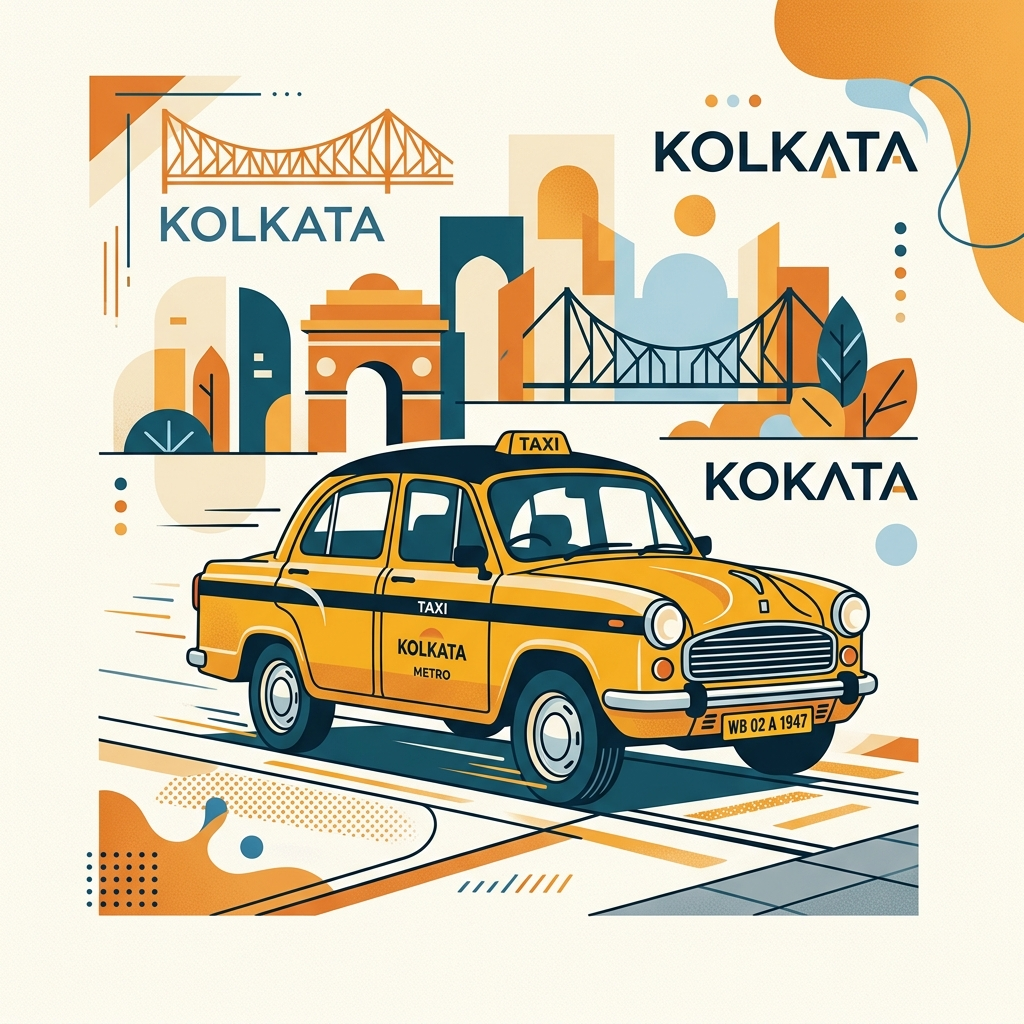
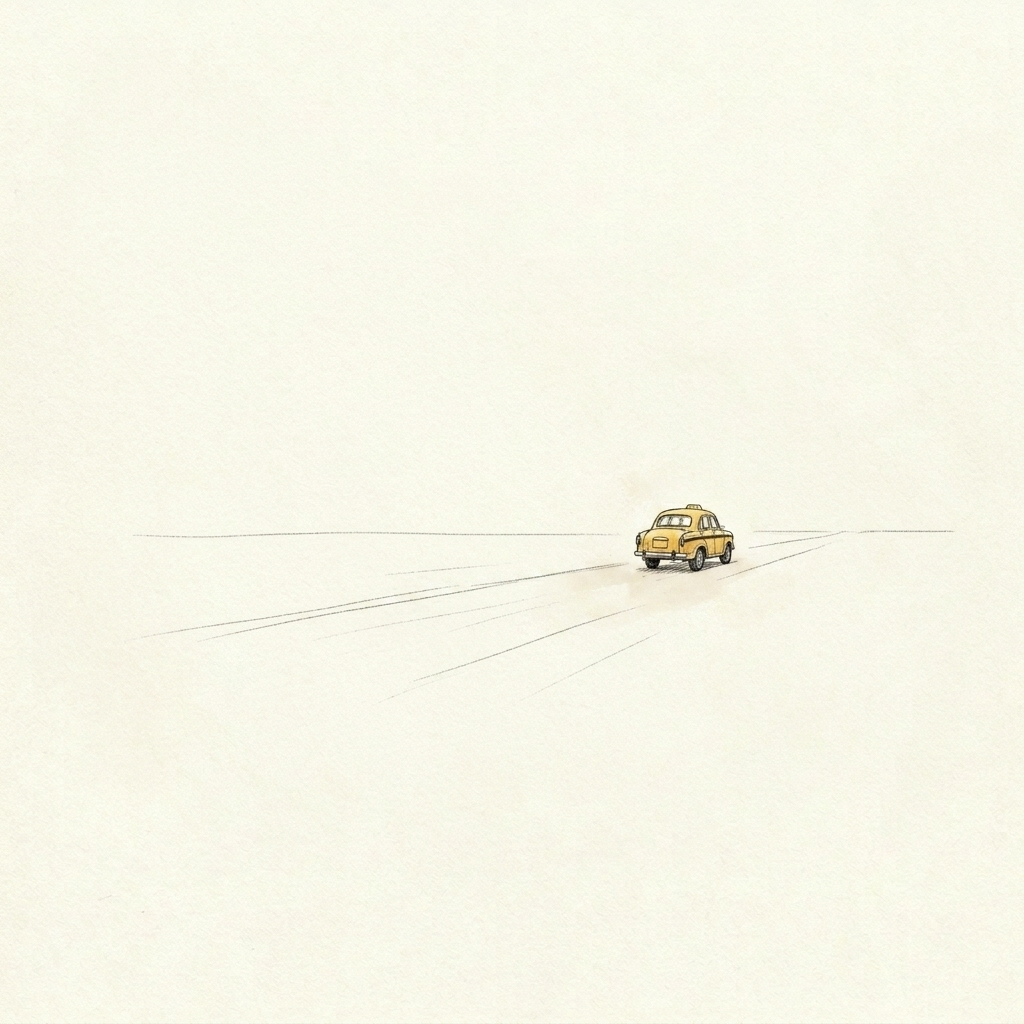
refactor: update brand assets and simplify home page layout and navigation styling

diff --git a/frontend/src/pages/Home.jsx b/frontend/src/pages/Home.jsx
@@ -5,11 +5,10 @@ import { ScrollTrigger } from 'gsap/ScrollTrigger';
 import { useGSAP } from '@gsap/react';
 import { ArrowRight } from 'lucide-react';
 import taxiImg from '../assets/images/taxi.png';
-import rickshawImg from '../assets/images/rickshaw.png';
-import bridgeImg from '../assets/images/bridge.png';
-import heroBridgeImg from '../assets/images/hero_bridge.png';
-import taxiSketchImg from '../assets/images/taxi_sketch.png';
+import sketchedRickshawImg from '../assets/images/sketched rickshaw.png';
+import taxiSketchImg from '../assets/images/taxi_sketch_minimal.png';
 import logoImg from '../assets/images/logo.png';
+import heroIllustrationImg from '../assets/images/hero_illustration.png';
 
 gsap.registerPlugin(ScrollTrigger);
 
@@ -29,23 +28,12 @@ const specials = [
   { id: 3, title: 'Weekend Art Bootcamp', image: 'https://images.unsplash.com/photo-1460661419201-fd4cecdf8a8b?auto=format&fit=crop&q=80', desc: 'A rigorous but fun weekend bootcamp covering three distinct art mediums over two days.' },
 ];
 
-const WordSplitter = ({ text, className }) => {
-  return (
-    <span className={className}>
-      {text.split(' ').map((word, i) => (
-        <span key={i} className="inline-block overflow-hidden align-bottom">
-          <span className="inline-block word-reveal translate-y-[120%]">{word}&nbsp;</span>
-        </span>
-      ))}
-    </span>
-  );
-};
 
 const Home = () => {
   const container = useRef(null);
   const [hoveredSpecial, setHoveredSpecial] = useState(0);
   const heroRef = useRef(null);
-  const introRef = useRef(null);
+
   const horizontalSectionRef = useRef(null);
   const horizontalScrollRef = useRef(null);
 
@@ -74,19 +62,6 @@ const Home = () => {
       delay: 0.2,
     });
 
-
-
-    // Intro Text Reveal
-    gsap.to(introRef.current.querySelectorAll('.word-reveal'), {
-      y: '0%',
-      duration: 1,
-      stagger: 0.02,
-      ease: 'power3.out',
-      scrollTrigger: {
-        trigger: introRef.current,
-        start: 'top 75%',
-      }
-    });
 
     // Horizontal Scroll for Activities
     const scrollContainer = horizontalScrollRef.current;
@@ -136,20 +111,7 @@ const Home = () => {
       }
     );
 
-    // About Stats Counters
-    const counters = gsap.utils.toArray('.stat-counter');
-    counters.forEach((counter) => {
-      const target = parseFloat(counter.getAttribute('data-target'));
-      gsap.to(counter, {
-        innerHTML: target,
-        duration: 2,
-        snap: { innerHTML: 1 },
-        scrollTrigger: {
-          trigger: counter,
-          start: 'top 80%',
-        }
-      });
-    });
+
 
     // About Image reveal (optimized)
     gsap.to('.about-img', {
@@ -177,17 +139,6 @@ const Home = () => {
       }
     });
 
-    // Coloring Kolkata Reveal
-    gsap.from('.coloring-kolkata', {
-      y: 100,
-      opacity: 0,
-      duration: 1.2,
-      ease: 'power4.out',
-      scrollTrigger: {
-        trigger: '.coloring-kolkata',
-        start: 'top 80%',
-      }
-    });
 
     // Team Header Reveal
     gsap.from('.team-header', {
@@ -285,60 +236,46 @@ const Home = () => {
   }, { scope: container });
 
   return (
-    <div ref={container} className="overflow-clip bg-bg-base text-text-dark">
+    <div ref={container} className="overflow-clip bg-[#f4ece3] text-text-dark">
       {/* Hero Section */}
-      <section ref={heroRef} className="relative h-screen flex items-center justify-center overflow-hidden bg-bg-base">
+      <section ref={heroRef} className="relative h-screen flex flex-col items-center justify-center overflow-hidden bg-[#f4ece3]">
         
-        {/* Background Image */}
-        <div className="absolute inset-0 z-0 opacity-80 pointer-events-none mix-blend-multiply flex items-center justify-center">
-           <img src={heroBridgeImg} className="w-full h-full object-cover object-center" alt="Kolkata Sketch" />
-           <div className="absolute inset-0 bg-bg-base/40"></div>
+        {/* Hero Illustration Background — rickshaw in center, skyline at bottom */}
+        <div className="absolute inset-0 w-full h-full pointer-events-none">
+           <img 
+             src={heroIllustrationImg} 
+             className="hero-illustration w-full h-full object-cover object-bottom opacity-40 mix-blend-multiply" 
+             alt="Kolkata Illustration" 
+           />
         </div>
 
-        <div className="relative z-40 text-center px-4 max-w-5xl mx-auto mt-[5vh] flex flex-col items-center">
-          <h1 className="hero-text text-xl md:text-2xl lg:text-3xl font-sans font-bold text-gray-500 tracking-widest uppercase mb-4 md:mb-6">
-            Welcome to
-          </h1>
-          <img src={logoImg} alt="Art Rickshaw" className="hero-text h-24 md:h-40 lg:h-56 w-auto mb-10 object-contain" />
-          <p className="hero-text text-xl md:text-3xl text-gray-500 font-sans mb-10 max-w-3xl mx-auto uppercase tracking-widest font-bold">
-            Immerse yourself in the vibrant art culture of the city of joy.
-          </p>
-        </div>
-      </section>
+        {/* Centered Content */}
+        <div className="relative z-40 text-center px-4 max-w-5xl mx-auto flex flex-col items-center justify-center">
+          <div className="hero-text mb-6 flex flex-col items-center">
+            <h2 className="text-lg md:text-xl font-serif italic text-[#657777] mb-3 tracking-wide">Since 2016, Hindustan Park</h2>
+            <div className="w-6 h-[2px] bg-[#e65a44] rounded-full"></div>
+          </div>
+          
+          <div className="hero-text mb-10 mt-4">
+            <img src={logoImg} alt="Art Rickshaw" className="h-20 md:h-28 lg:h-40 w-auto mx-auto object-contain" />
+          </div>
 
-      {/* Intro Section */}
-      <section ref={introRef} className="py-40 md:py-52 px-6 bg-bg-base relative z-10 border-t border-gray-200 overflow-hidden">
-        {/* Background Image */}
-        <div className="absolute inset-0 z-0 opacity-[0.25] pointer-events-none">
-           <img src={taxiSketchImg} className="w-full h-full object-cover mix-blend-multiply" alt="Kolkata Taxi Sketch" />
-        </div>
-        <div className="max-w-5xl mx-auto text-center relative z-10">
-          <h2 className="text-5xl md:text-7xl font-serif font-bold mb-12 text-text-dark uppercase tracking-tighter">
-            <WordSplitter text="More than just an art studio." />
-          </h2>
-          <p className="text-2xl md:text-4xl leading-relaxed text-gray-500 font-medium font-serif italic">
-            <WordSplitter text="Art Rickshaw is a place where creativity flows freely. Nestled in the heart of Kolkata, we bring people together through the power of expression, colors, and craftsmanship." />
-          </p>
-        </div>
-      </section>
-
-      {/* Infinite Marquee Section */}
-      <section className="py-6 bg-secondary text-white border-y-0">
-        <div className="animate-marquee cursor-pointer" data-cursor="explore">
-          <span className="text-5xl md:text-7xl font-serif font-bold mx-4 uppercase tracking-wider">
-            Art Rickshaw ✦ Express Yourself ✦ Kolkata's Creative Hub ✦ Workshops ✦ Private Events ✦ 
-          </span>
-          <span className="text-5xl md:text-7xl font-serif font-bold mx-4 uppercase tracking-wider">
-            Art Rickshaw ✦ Express Yourself ✦ Kolkata's Creative Hub ✦ Workshops ✦ Private Events ✦ 
-          </span>
+          <div className="hero-text flex flex-col items-center">
+            <h3 className="text-xl md:text-2xl font-serif text-[#657777] mb-3">Create. Learn. Belong.</h3>
+            <div className="w-6 h-[2px] bg-[#e65a44] rounded-full mb-5"></div>
+            <p className="text-sm md:text-base text-gray-600 font-sans max-w-md mx-auto font-medium leading-relaxed">
+              Workshops, pottery, events and<br/>creative experiences in <span className="text-[#e65a44] italic font-bold">Kolkata</span>.
+            </p>
+          </div>
         </div>
       </section>
 
       {/* Horizontal Scroll Activities Section */}
-      <section ref={horizontalSectionRef} className="h-screen bg-text-dark relative overflow-hidden flex flex-col justify-center">
-        <div className="w-full px-10 md:px-20 mb-8 pointer-events-none">
-          <h2 className="text-5xl md:text-7xl font-serif font-bold text-white">Our Activities</h2>
-          <p className="text-xl text-gray-400 mt-4 max-w-md font-medium">Scroll to explore the different ways you can express your creativity.</p>
+      <section ref={horizontalSectionRef} className="h-screen bg-[#f4ece3] relative overflow-hidden flex flex-col justify-center pt-24 pb-8 z-10">
+        <div className="w-full px-10 md:px-20 mb-8 pointer-events-none text-center">
+          <span className="text-secondary font-bold tracking-widest uppercase text-sm mb-6 block">What We Do</span>
+          <h2 className="text-5xl md:text-7xl font-serif font-black text-text-dark leading-none tracking-tighter">OUR ACTIVITIES</h2>
+          <p className="text-xl text-gray-500 mt-6 max-w-md mx-auto font-serif italic">Scroll to explore the different ways you can express your creativity.</p>
         </div>
 
         <div ref={horizontalScrollRef} className="flex h-[50vh] md:h-[60vh] items-center w-max pl-[10vw] pr-[20vw] will-change-transform">
@@ -360,14 +297,15 @@ const Home = () => {
         </div>
       </section>
 
+      {/* Spacer */}
+      <div className="h-32 bg-[#f4ece3] relative z-10"></div>
+
       {/* --- WEEKLY SPECIALS SECTION --- */}
-      <section className="specials-section bg-[#0a0a0a] text-white relative py-32 border-y border-white/5">
-        <div className="container mx-auto px-6 md:px-12 mb-16 md:mb-24 flex flex-col md:flex-row justify-between items-end specials-header">
-           <div className="max-w-2xl">
-             <span className="text-primary font-bold tracking-widest uppercase text-sm block mb-4">Curated Experiences</span>
-             <h2 className="text-5xl md:text-7xl font-serif font-black text-white tracking-tighter uppercase">Weekly Specials</h2>
-           </div>
-           <p className="text-xl text-gray-400 font-serif italic mt-6 md:mt-0 max-w-md">
+      <section className="specials-section bg-secondary text-white relative py-32 border-y border-white/10">
+        <div className="container mx-auto px-6 md:px-12 mb-16 md:mb-24 specials-header">
+           <span className="text-primary font-bold tracking-widest uppercase text-sm block mb-4">Curated Experiences</span>
+           <h2 className="text-5xl md:text-7xl font-serif font-black text-white tracking-tighter uppercase">Weekly Specials</h2>
+           <p className="text-xl text-gray-300 font-serif italic mt-6 max-w-xl">
              Exclusive, limited-capacity events designed to spark your creativity and connect you with like-minded individuals.
            </p>
         </div>
@@ -424,58 +362,36 @@ const Home = () => {
       </section>
 
       {/* --- ABOUT SECTION --- */}
-      <section id="about" className="pt-32 pb-24 bg-text-dark text-white">
+      <section id="about" className="pt-32 pb-8 bg-[#f4ece3] text-text-dark">
         <div className="container mx-auto px-6 md:px-12">
-          {/* Hero Content */}
-          <div className="max-w-6xl mb-20">
-            <span className="text-secondary font-bold tracking-widest uppercase text-sm mb-10 block">Our Story</span>
-            <h1 className="coloring-kolkata text-6xl md:text-[8vw] font-serif font-black text-white leading-none tracking-tighter mb-12">
-              COLORING <br/> KOLKATA.
-            </h1>
-            <p className="text-2xl md:text-4xl text-gray-400 font-serif italic max-w-4xl leading-relaxed">
-              Founded with a passion for bringing people together through creativity, Art Rickshaw is more than just a studio. It's a sanctuary for imagination.
+          {/* Header — matches MEET THE CREATIVES style */}
+          <div className="flex flex-col md:flex-row justify-between items-end mb-20">
+            <div>
+              <span className="text-secondary font-bold tracking-widest uppercase text-sm mb-6 block">Our Story</span>
+              <h2 className="text-5xl md:text-7xl font-serif font-black text-text-dark leading-none tracking-tighter">
+                OUR <br/> PHILOSOPHY.
+              </h2>
+            </div>
+            <p className="text-xl text-gray-500 max-w-md mt-6 md:mt-0 font-serif italic">
+              Founded with a passion for bringing people together through creativity, Art Rickshaw is more than just a studio.
             </p>
           </div>
 
-          {/* Stats Section */}
-          <div className="py-20 border-y border-white/10">
-            <div className="grid grid-cols-1 md:grid-cols-3 gap-20">
-              <div>
-                <div className="text-[15vw] md:text-[10vw] font-serif font-bold text-primary leading-none tracking-tighter">
-                  <span className="stat-counter" data-target="50">0</span>+
-                </div>
-                <div className="text-xl font-bold uppercase tracking-widest text-white mt-4">Workshops</div>
-              </div>
-              <div>
-                <div className="text-[15vw] md:text-[10vw] font-serif font-bold text-primary leading-none tracking-tighter">
-                  <span className="stat-counter" data-target="10">0</span>k+
-                </div>
-                <div className="text-xl font-bold uppercase tracking-widest text-white mt-4">Creators</div>
-              </div>
-              <div>
-                <div className="text-[15vw] md:text-[10vw] font-serif font-bold text-primary leading-none tracking-tighter">
-                  <span className="stat-counter" data-target="100">0</span>%
-                </div>
-                <div className="text-xl font-bold uppercase tracking-widest text-white mt-4">Passion</div>
-              </div>
-            </div>
-          </div>
+
 
           {/* Image & Text Split */}
-          <div className="flex flex-col md:flex-row items-start gap-20 py-32">
+          <div className="flex flex-col md:flex-row items-start gap-20 py-16">
             <div className="w-full md:w-1/2 about-img-container">
-              <div className="aspect-4/5 bg-gray-200 rounded-2xl overflow-hidden relative about-img clip-path-reveal scale-125 shadow-2xl will-change-transform">
-                 <img src={rickshawImg} alt="Studio" className="about-img-parallax absolute top-[-20%] w-full h-[140%] object-cover object-center will-change-transform" />
-                 <div className="absolute inset-0 bg-black/20 pointer-events-none"></div>
+              <div className="aspect-4/5 bg-[#f4ece3] rounded-2xl overflow-hidden relative about-img clip-path-reveal scale-125 will-change-transform">
+                 <img src={sketchedRickshawImg} alt="Sketched Rickshaw" className="about-img-parallax absolute top-[-10%] w-full h-[120%] object-contain object-center will-change-transform mix-blend-multiply" />
               </div>
             </div>
 
             <div className="w-full md:w-1/2 md:pt-20 philosophy-container">
-              <h2 className="philosophy-text text-5xl font-serif font-bold text-white mb-10 tracking-tighter">OUR PHILOSOPHY</h2>
-              <p className="philosophy-text text-2xl text-gray-400 mb-8 leading-relaxed font-serif italic">
+              <p className="philosophy-text text-2xl text-gray-500 mb-8 leading-relaxed font-serif italic">
                 We believe that art is not just for the 'gifted'. It is a language, a form of therapy, and a way to connect. We provide a space where mistakes are welcomed as happy accidents.
               </p>
-              <p className="philosophy-text text-lg text-gray-400 leading-relaxed font-sans uppercase tracking-widest font-medium">
+              <p className="philosophy-text text-lg text-gray-500 leading-relaxed font-sans uppercase tracking-widest font-medium">
                 From traditional terracotta to modern fluid arts, our workshops are designed to help you disconnect from the hustle of the city and reconnect with your inner self.
               </p>
             </div>
@@ -484,7 +400,7 @@ const Home = () => {
       </section>
 
       {/* --- TEAM SECTION --- */}
-      <section id="team" className="py-32 bg-bg-base relative z-10 border-t border-gray-200">
+      <section id="team" className="py-32 bg-[#f0ddd5] relative z-10 border-t border-text-dark/10">
         <div className="container mx-auto px-6 md:px-12">
           <div className="flex flex-col md:flex-row justify-between items-end mb-20">
             <div>
@@ -520,10 +436,10 @@ const Home = () => {
       </section>
 
       {/* --- CONTACT SECTION --- */}
-      <section id="contact" className="py-32 relative overflow-hidden border-t border-gray-200">
-        {/* Background Image */}
-        <div className="absolute inset-0 z-0 bg-bg-base">
-           <img src={bridgeImg} className="contact-bg-parallax absolute top-[-20%] w-full h-[140%] object-cover opacity-10 will-change-transform" alt="Background" />
+      <section id="contact" className="py-32 relative overflow-hidden border-t border-text-dark/10 bg-[#f4ece3]">
+        {/* Background Sketch */}
+        <div className="absolute inset-0 z-0">
+           <img src={taxiSketchImg} className="contact-bg-parallax absolute top-[-10%] left-1/2 -translate-x-1/2 w-[80%] h-[120%] object-contain opacity-[0.08] mix-blend-multiply will-change-transform" alt="Background" />
         </div>
         
         <div className="container mx-auto px-6 md:px-12 flex flex-col lg:flex-row gap-20 items-start relative z-10">

diff --git a/frontend/src/components/Navbar.jsx b/frontend/src/components/Navbar.jsx
@@ -2,7 +2,6 @@ import { useState, useEffect } from 'react';
 import { Link, useLocation } from 'react-router-dom';
 import { motion, AnimatePresence } from 'framer-motion';
 import Magnetic from './Magnetic';
-import bridgeImg from '../assets/images/bridge.png';
 import logoImg from '../assets/images/logo.png';
 
 const links = [
@@ -79,14 +78,14 @@ const Navbar = () => {
 
   return (
     <>
-      <nav className="fixed top-0 left-0 w-full z-100 px-6 py-6 mix-blend-difference flex justify-between items-center pointer-events-none">
+      <nav className="fixed top-0 left-0 w-full z-100 px-6 py-6 bg-transparent flex justify-between items-center pointer-events-none">
         <Link to="/" className="pointer-events-auto flex items-center">
-          <img src={logoImg} alt="Art Rickshaw" className="h-8 md:h-10 w-auto invert" />
+          <img src={logoImg} alt="Art Rickshaw" className="h-8 md:h-10 w-auto" />
         </Link>
         <Magnetic>
           <button 
             onClick={() => setIsOpen(!isOpen)} 
-            className="text-white text-lg font-bold tracking-widest uppercase pointer-events-auto"
+            className="text-text-dark text-lg font-bold tracking-widest uppercase pointer-events-auto"
           >
             {isOpen ? 'Close' : 'Menu'}
           </button>
@@ -103,15 +102,15 @@ const Navbar = () => {
             className="fixed inset-0 z-50 flex"
           >
             {/* Left Side: Solid Background with Links */}
-            <div className="w-full md:w-2/3 h-full bg-text-dark flex flex-col justify-center px-10 md:px-32 relative">
-              <div className="flex flex-col gap-4">
+            <div className="w-full h-full bg-[#f0ddd5] flex flex-col items-center justify-center px-10 relative">
+              <div className="flex flex-col items-center gap-4">
                 {links.map((link, i) => (
                   <div key={link.name} className="overflow-hidden">
                     <motion.div custom={i} variants={linkVariants} initial="initial" animate="animate" exit="exit">
                       <Link 
                         to={link.path}
                         onClick={(e) => handleLinkClick(e, link.path)}
-                        className="text-6xl md:text-[8vw] font-serif font-bold text-white hover:text-primary transition-colors leading-none uppercase"
+                        className="text-4xl md:text-5xl font-serif font-bold text-text-dark hover:text-primary transition-colors leading-none uppercase"
                       >
                         {link.name}
                       </Link>
@@ -124,15 +123,10 @@ const Navbar = () => {
                 initial={{ opacity: 0 }}
                 animate={{ opacity: 1, transition: { delay: 1 } }}
                 exit={{ opacity: 0 }}
-                className="absolute bottom-10 left-10 md:left-32 text-gray-400 font-medium font-serif italic"
+                className="absolute bottom-10 text-gray-500 font-medium font-serif italic"
               >
                 Let's create something beautiful together.
               </motion.div>
-            </div>
-
-            {/* Right Side: Massive Image Reveal */}
-            <div className="hidden md:block w-1/3 h-full bg-primary relative overflow-hidden">
-               <img src={bridgeImg} className="absolute inset-0 w-full h-full object-cover mix-blend-overlay opacity-50 filter grayscale scale-110" alt="Menu Art" />
             </div>
           </motion.div>
         )}
